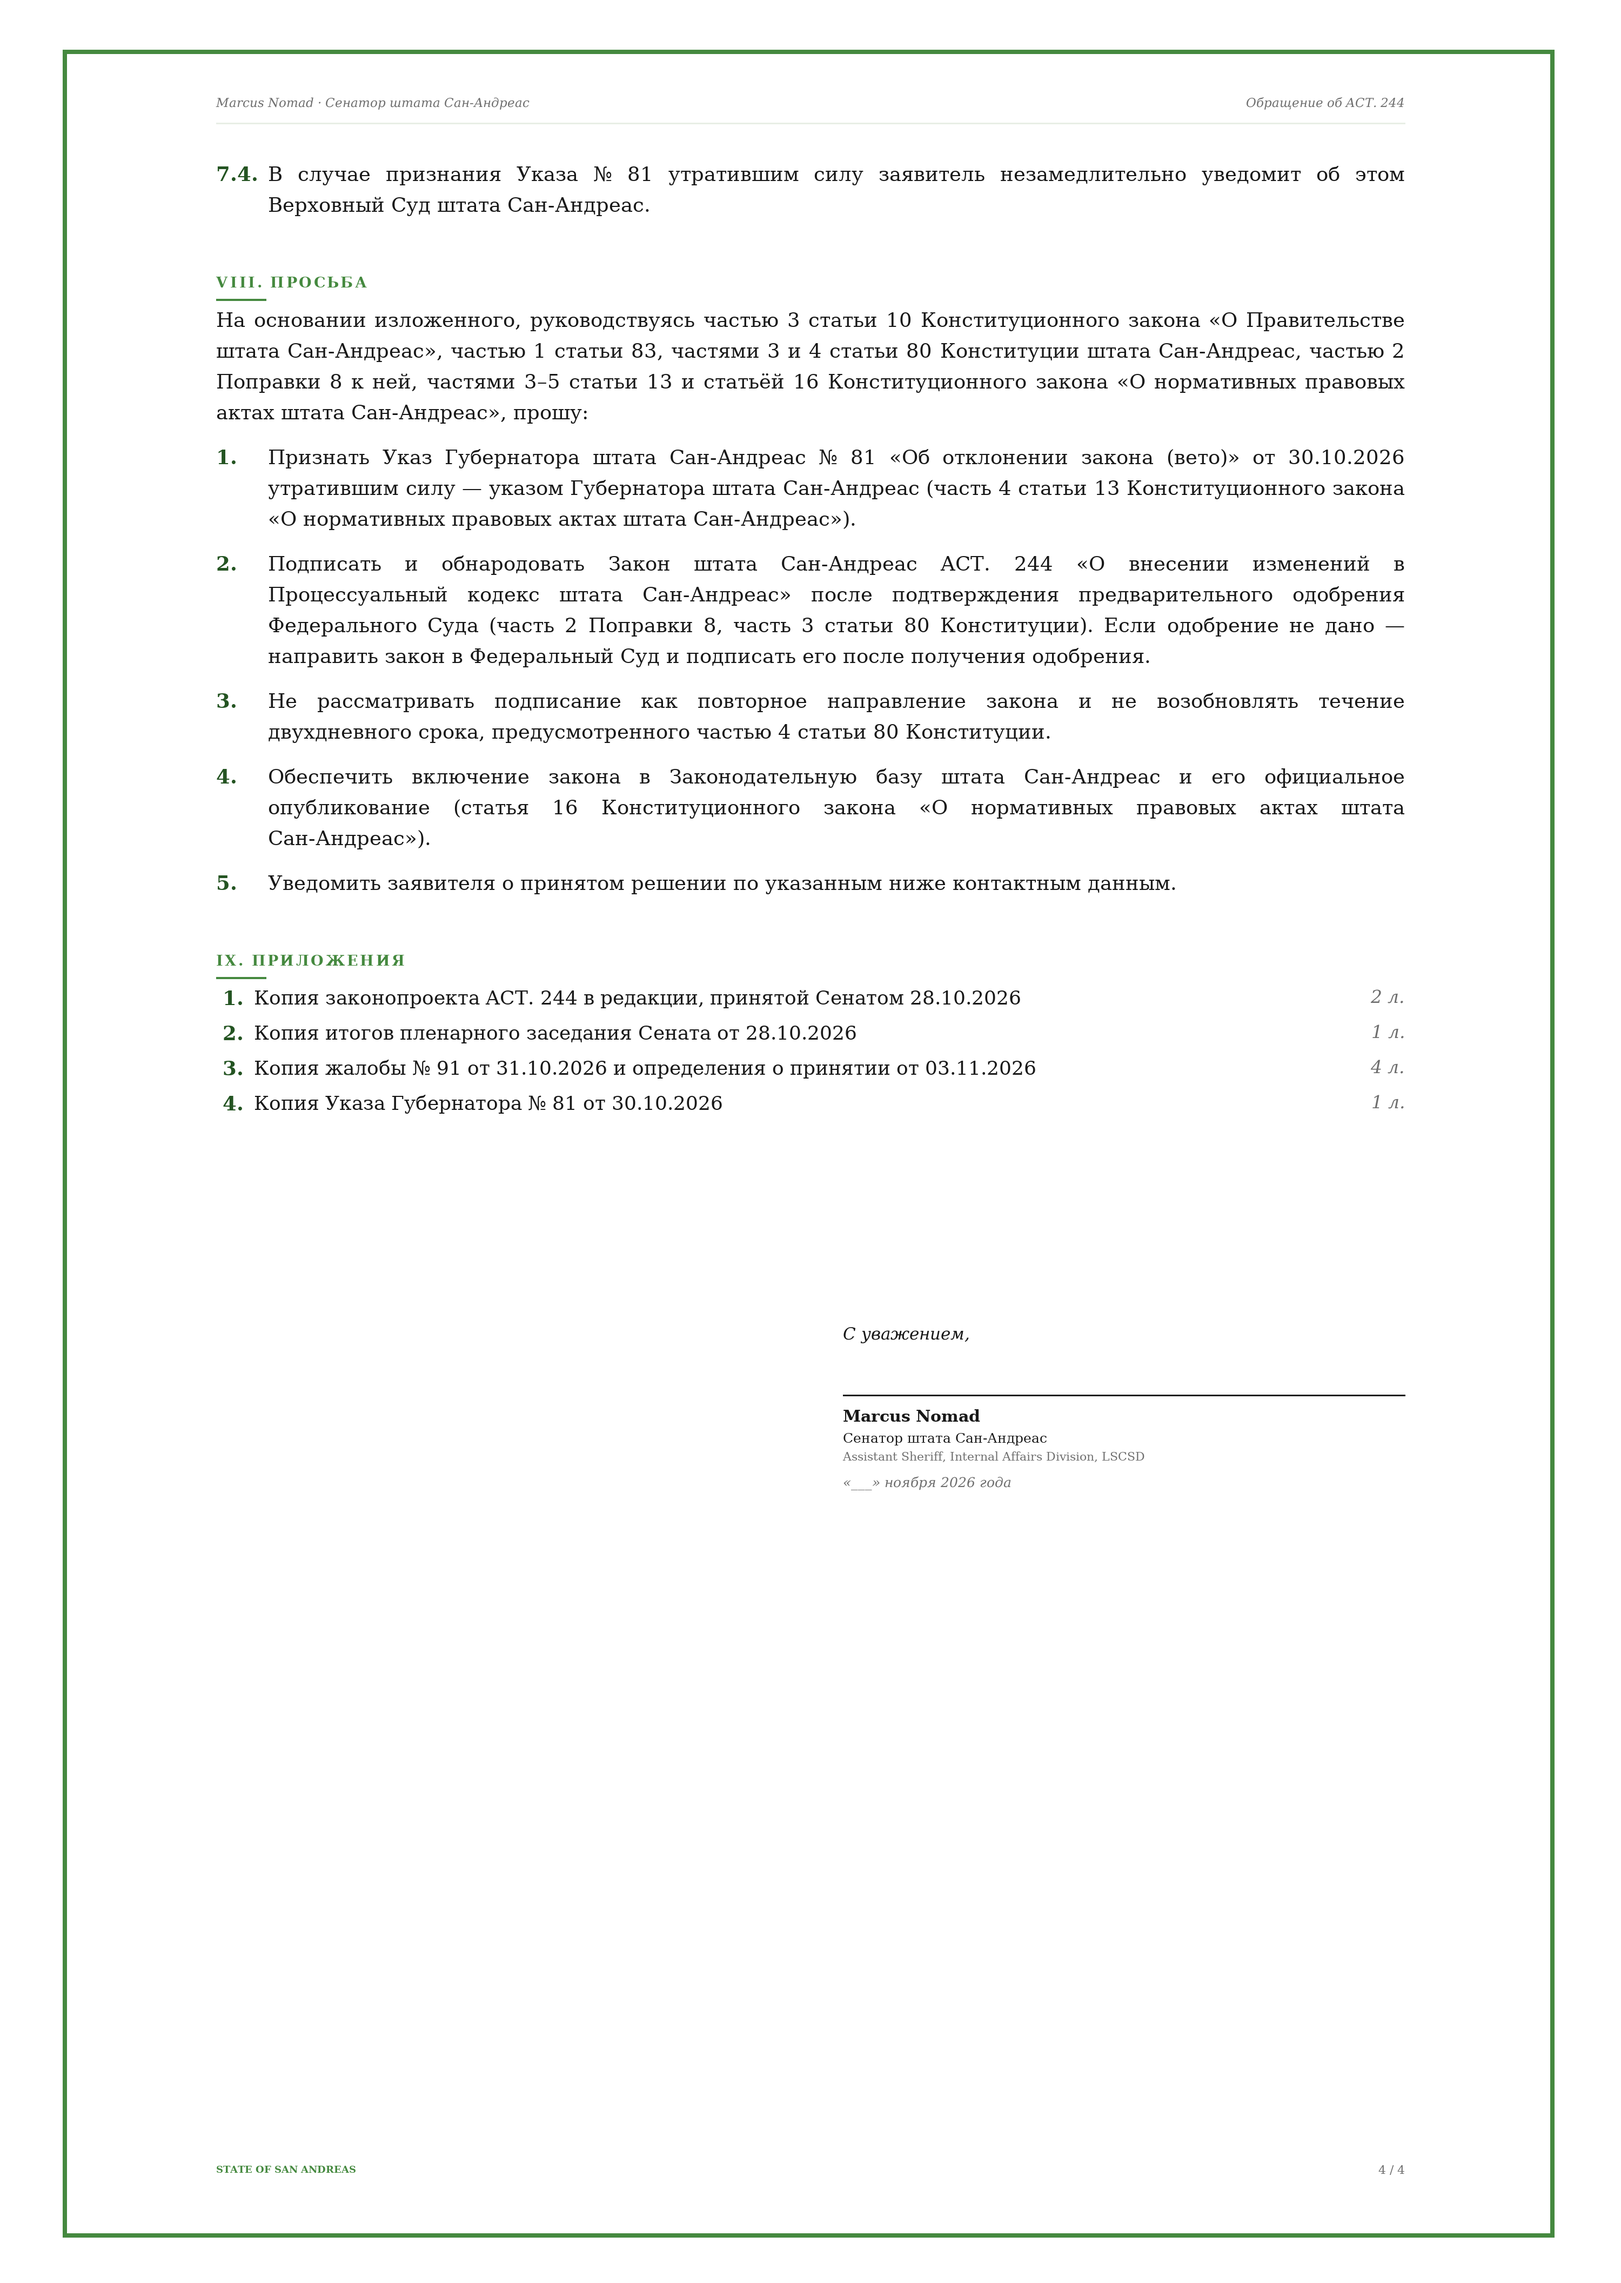
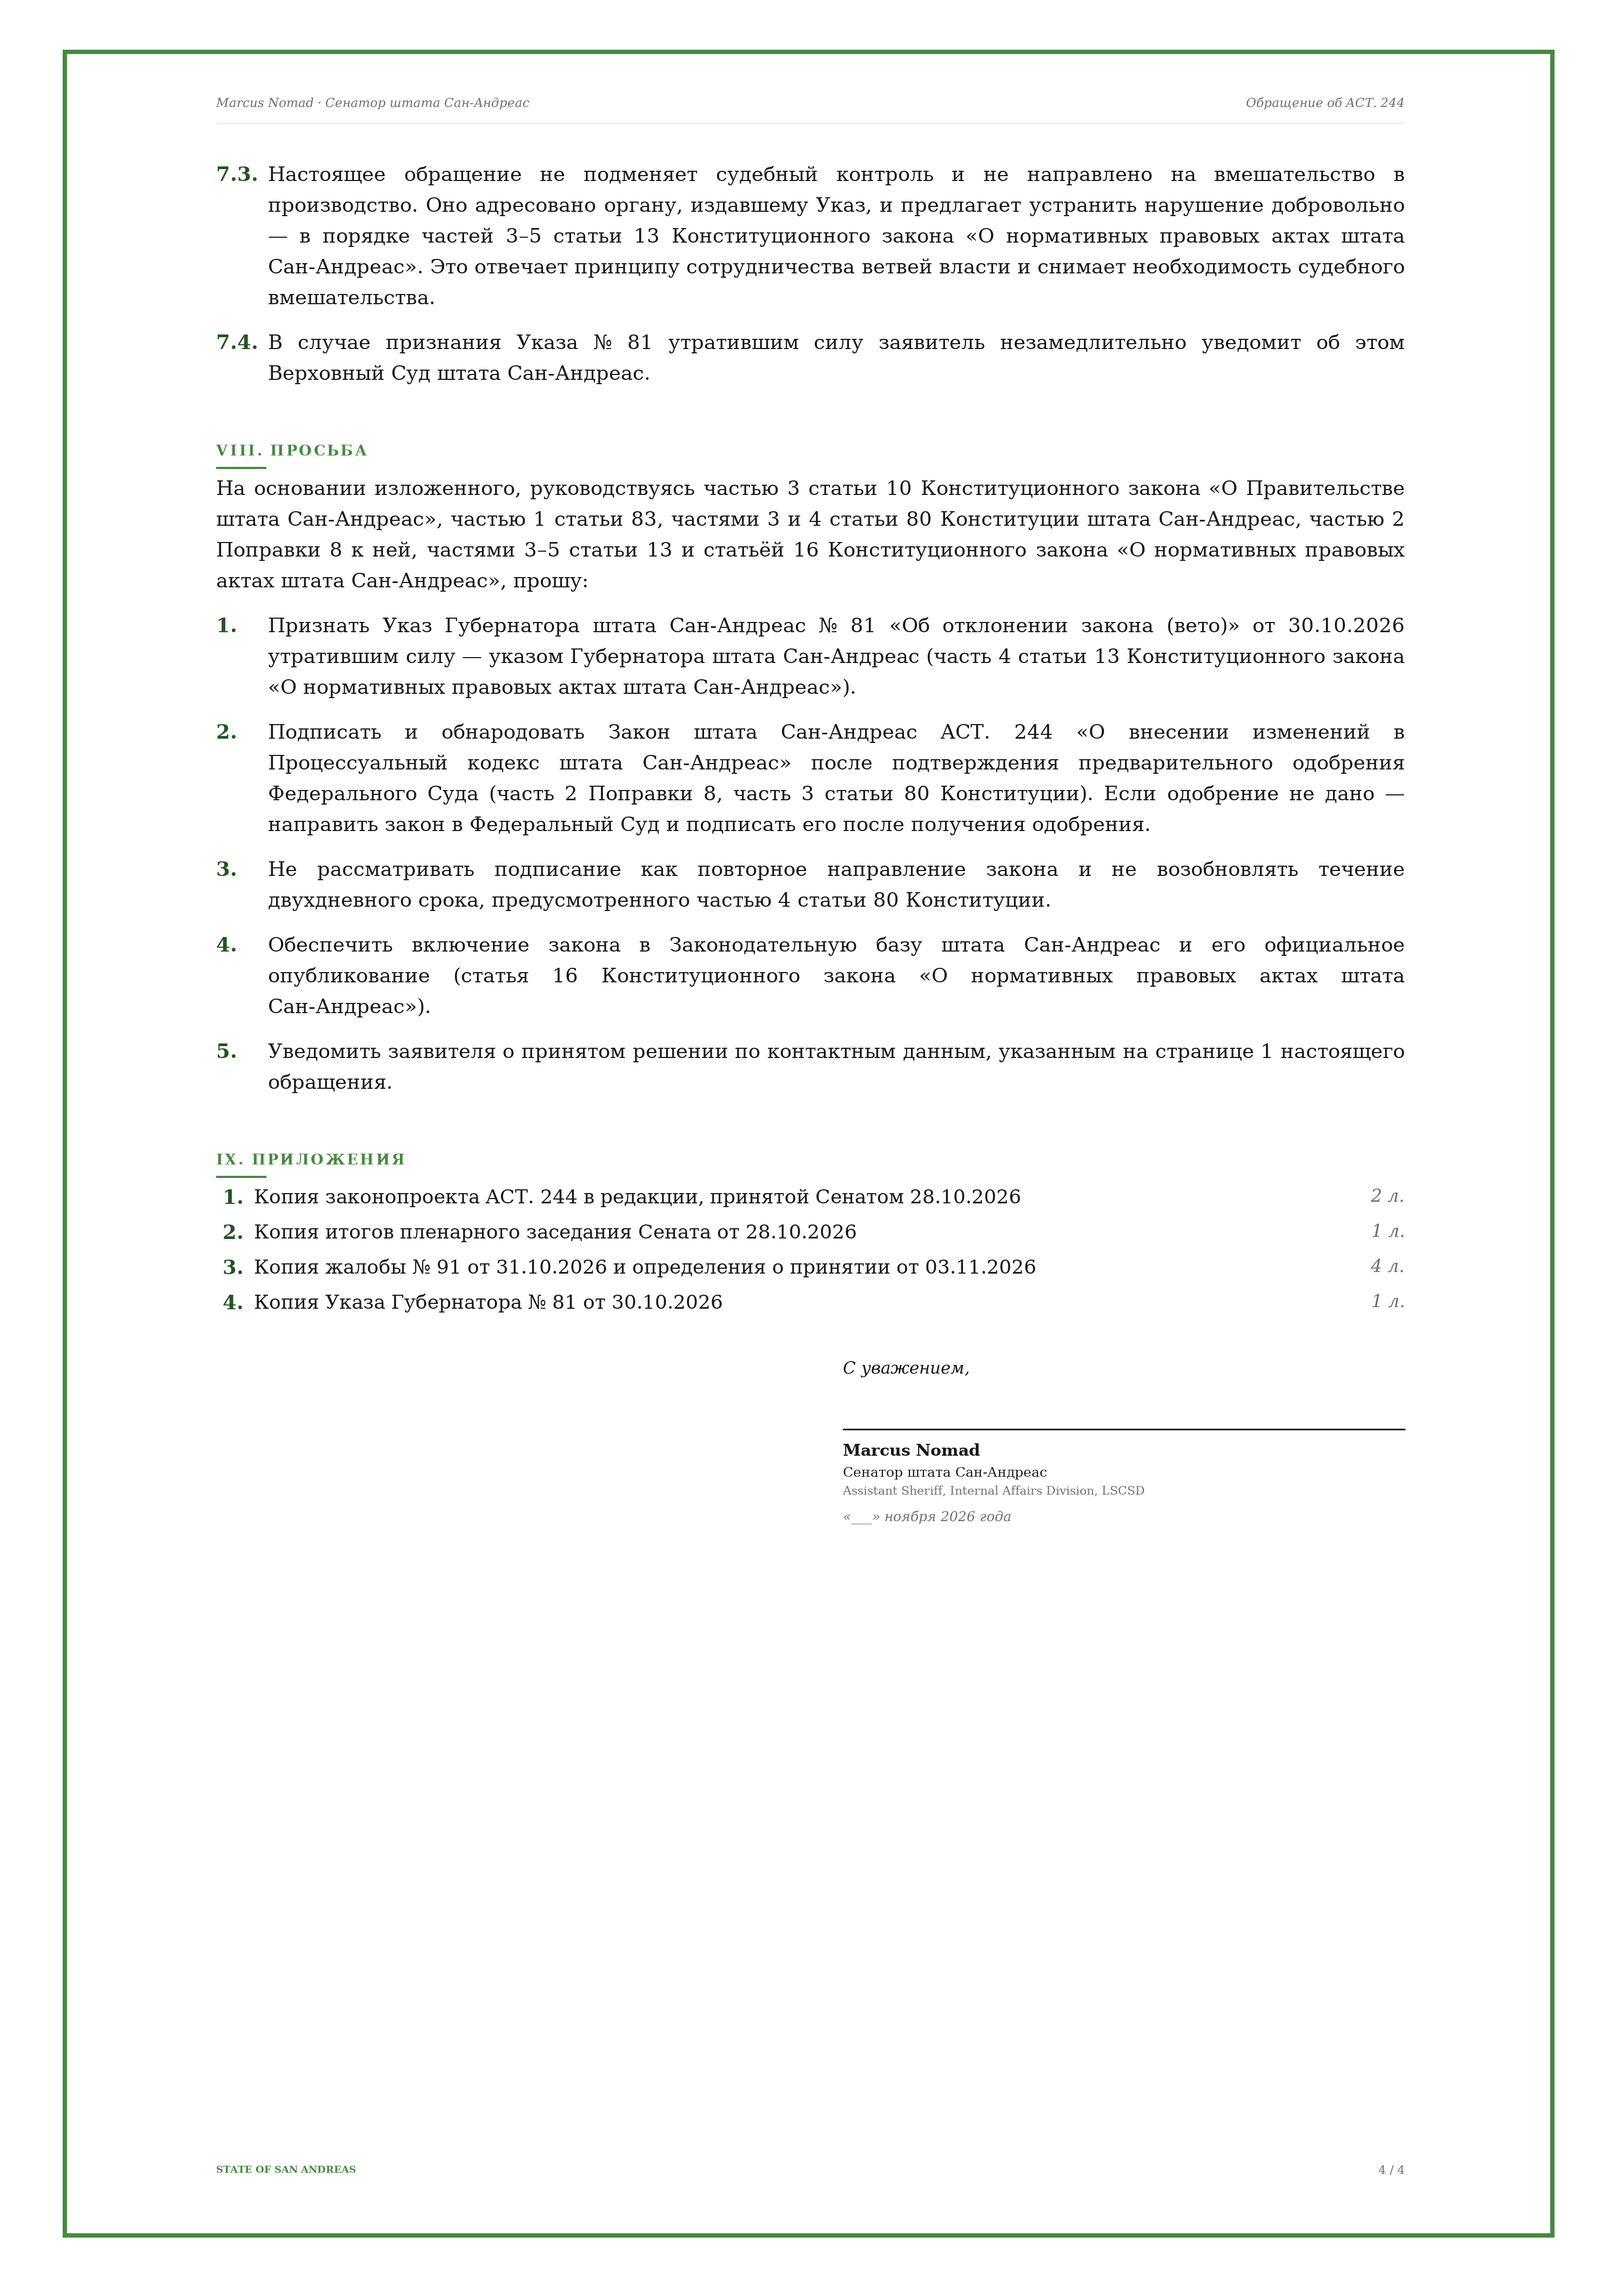
Обращение к Губернатору: убран дубль в п. 2.1, п. 5 просьбы ссылается на контакты на стр. 1; переносы блоков

Changed region(s): [[0.124, 0.0625, 0.868, 0.5624], [0.527, 0.5936, 0.651, 0.6561], [0.775, 0.4062, 0.868, 0.4686]]

diff --git a/tools/make_senator_appeal_png.py b/tools/make_senator_appeal_png.py
@@ -197,8 +197,7 @@ def content():
        "«О Сенате штата Сан-Андреас»), а рассмотрение законодательных инициатив "
        "и принятие на их основе законов отнесено к его полномочиям (пункт «а» "
        "части 1 статьи 7 того же Закона). Я голосовал за принятие ACT. 244 "
-       "голосовал за принятие ACT. 244 и действую в интересах завершения "
-       "законотворческой процедуры."))
+       "и действую в интересах завершения законотворческой процедуры."))
     A(("n", "2.2.", "**Сотрудник IAD.** Одновременно я прохожу службу в LSCSD в "
        "должности Assistant Sheriff, отдел Internal Affairs Division (IAD). "
        "Согласно пункту 10.1 Устава LSCSD отдел IAD осуществляет надзор за "
@@ -290,14 +289,14 @@ def content():
        "однозначности терминологии (часть 1 статьи 11 того же Закона)."))
     A(("n", "5.3.", "KEEP**Заявленные основания не соотносятся с содержанием "
        "закона.**"))
-    A(("s", "а)", "Права не ограничиваются. Норма добавляет участника "
+    A(("s", "а)", "KEEPПрава не ограничиваются. Норма добавляет участника "
        "процессуального действия и не возлагает новых обязанностей ни на "
        "задержанного, ни на инициатора задержания, ни на иных лиц."))
-    A(("s", "б)", "Пробел не создаётся. Пробел — отсутствие регулирования; "
+    A(("s", "б)", "KEEPПробел не создаётся. Пробел — отсутствие регулирования; "
        "норма, напротив, вводит регулирование. Объём полномочий надзорного "
        "участника определяется его статусом и ведомственными актами — так же, "
        "как для сотрудника IB по пункту «ж» части 1 статьи 18."))
-    A(("s", "в)", "Правовой неопределённости нет. Субъект, территория и цель "
+    A(("s", "в)", "KEEPПравовой неопределённости нет. Субъект, территория и цель "
        "названы прямо: один сотрудник IAD своего ведомства, на территории "
        "своего департамента, исключительно в целях надзора."))
     A(("s", "г)", "Коллизии с IB нет. Пункт «ж» части 1 статьи 18 касается "
@@ -396,8 +395,8 @@ def content():
        "Сан-Андреас и его официальное опубликование (статья 16 "
        "Конституционного закона «О нормативных правовых актах штата "
        "Сан-Андреас»)."))
-    A(("n", "5.", "Уведомить заявителя о принятом решении по указанным ниже "
-       "контактным данным."))
+    A(("n", "5.", "Уведомить заявителя о принятом решении по контактным "
+       "данным, указанным на странице 1 настоящего обращения."))
 
     A(("h", "IX. ПРИЛОЖЕНИЯ"))
     A(("att", "1.", "Копия законопроекта ACT. 244 в редакции, принятой Сенатом "
@@ -615,15 +614,22 @@ def build(path):
     heights = measure(d0, blocks)
 
     # пагинация: заголовок не отрывается от следующего блока
+    # «требуемая» высота: блок плюс все блоки, которые нельзя от него оторвать
+    n = len(blocks)
+    req = [0] * n
+    for i in range(n - 1, -1, -1):
+        h, keep = heights[i]
+        glue = (keep or blocks[i][0] == "h") and i + 1 < n
+        req[i] = h + (req[i + 1] if glue else 0)
+        if req[i] > BOTTOM - NEXT_TOP:
+            req[i] = h
+
     pages, cur, y = [], [], None
     for i, (b, (h, keep)) in enumerate(zip(blocks, heights)):
         top = FIRST_TOP if not pages else NEXT_TOP
         if y is None:
             y = top
-        need = h
-        if (keep or b[0] == "h") and i + 1 < len(blocks):
-            need += heights[i + 1][0]
-        if y + need > BOTTOM and cur:
+        if y + req[i] > BOTTOM and cur:
             pages.append(cur)
             cur, y = [], NEXT_TOP
         cur.append((b, y, h))
